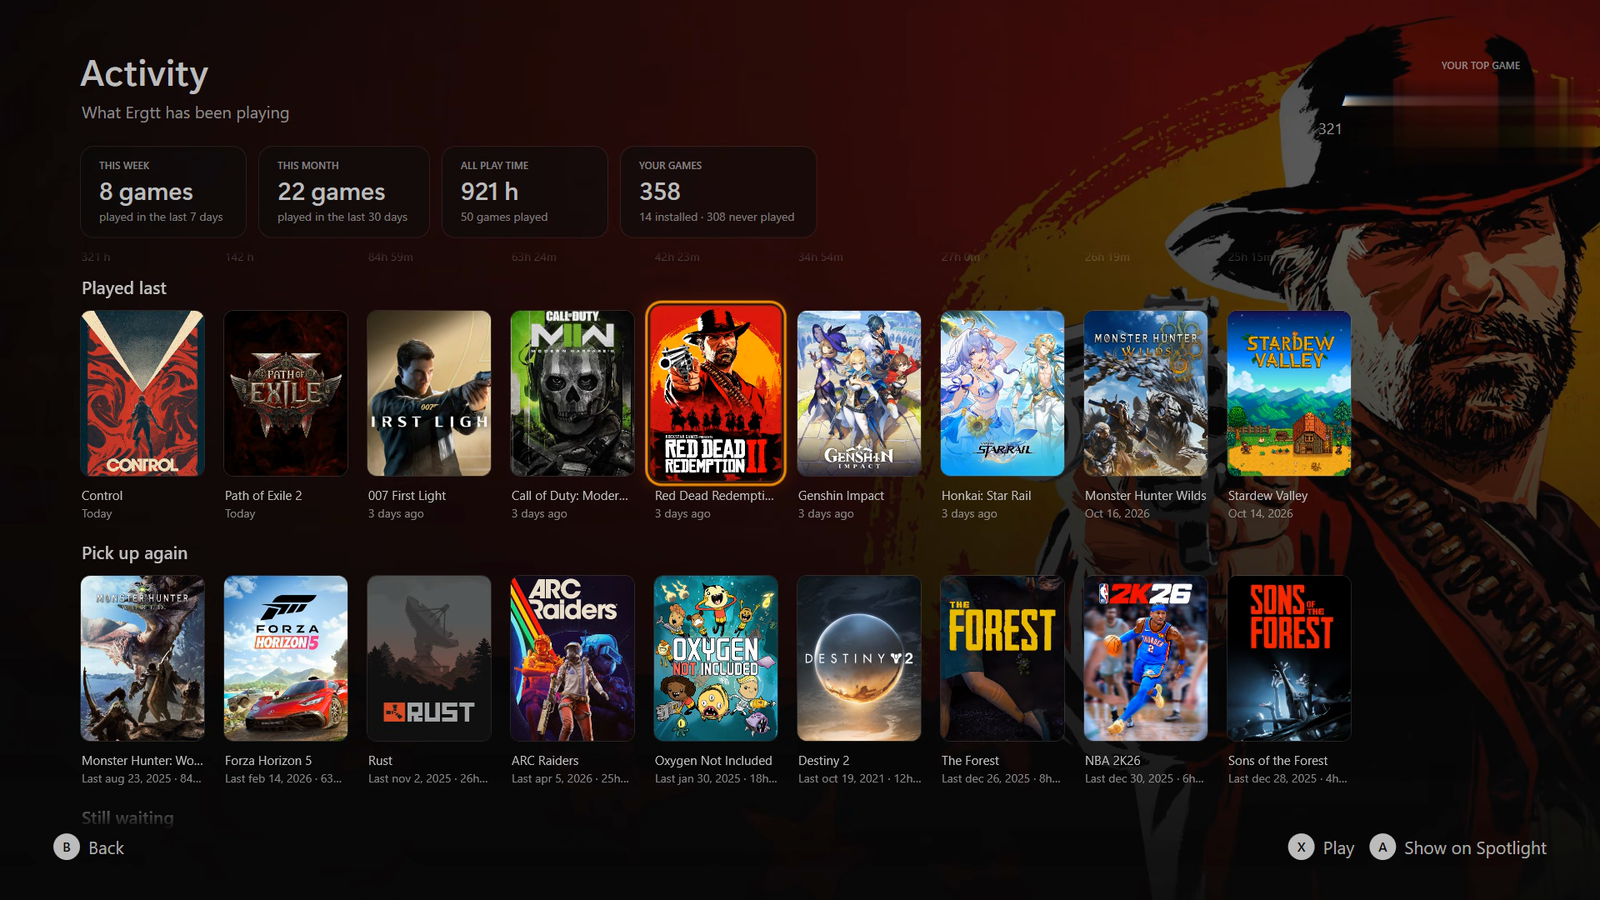
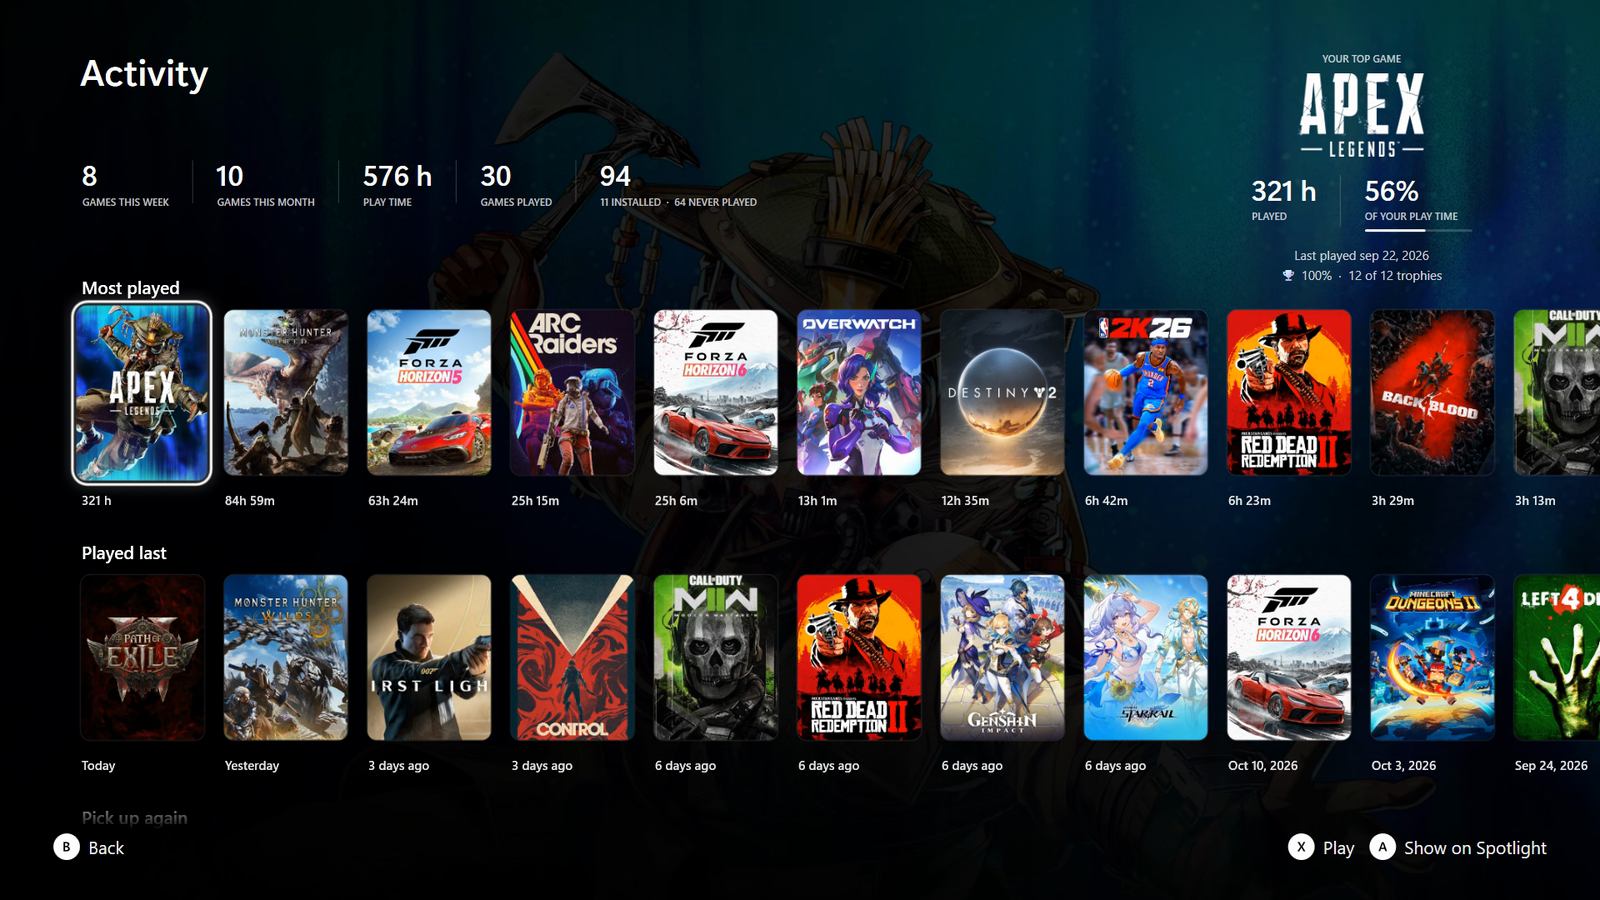
Selene 1.2.0: new screenshots and GIFs for the README

diff --git a/README.md b/README.md
@@ -3,7 +3,7 @@
 </p>
 
 <p align="center">
-  <img src="https://img.shields.io/badge/version-1.1.0-9CCBFF?style=flat-square" alt="Version 0.9.0">
+  <img src="https://img.shields.io/badge/version-1.2.0-9CCBFF?style=flat-square" alt="Version">
   <img src="https://img.shields.io/badge/Playnite-10%2B-1A2A4A?style=flat-square" alt="Playnite 10+">
   <img src="https://img.shields.io/badge/Windows-10%20%7C%2011-1A2A4A?style=flat-square" alt="Windows 10 | 11">
   <img src="https://img.shields.io/badge/controller-first-1A2A4A?style=flat-square" alt="Controller first">
@@ -12,7 +12,7 @@
 
 <p align="center">
   <b>A calm, console-style fullscreen theme for <a href="https://playnite.link">Playnite</a></b>, named after the Greek goddess of the moon.<br>
-  The theme plus <b>Selene Core</b>, the add-on that brings it to life: Spotlight, profiles, the store, your captures, the launch experience.
+  The theme plus <b>Selene Core</b>, the add-on that brings it to life: Spotlight, profiles, the store, your captures, achievements, the launch experience.
 </p>
 
 <p align="center">
@@ -36,6 +36,14 @@ Playnite 10 or newer, Windows 10 / 11, a controller recommended. Everything Sele
 
 <table>
   <tr>
+    <td width="50%"><img src="docs/readme/achievements.gif" alt="Achievements"><p align="center"><sub><b>Achievements</b> Every game's trophies, sorted your way; a game's own list like a console's</sub></p></td>
+    <td width="50%"><img src="docs/readme/activity.gif" alt="Activity"><p align="center"><sub><b>Activity</b> Your play time, this week day by day, and each game's place in it</sub></p></td>
+  </tr>
+  <tr>
+    <td width="50%"><img src="docs/readme/collection.gif" alt="Collection"><p align="center"><sub><b>Collection</b> Rest on a game and its trailer plays</sub></p></td>
+    <td width="50%"><img src="docs/readme/report.gif" alt="Report a problem"><p align="center"><sub><b>Report a problem</b> Three quick steps, or type on your phone; no account needed</sub></p></td>
+  </tr>
+  <tr>
     <td width="50%"><img src="docs/readme/spotlight.gif" alt="Spotlight"><p align="center"><sub><b>Spotlight</b> One row: your cards, then your games</sub></p></td>
     <td width="50%"><img src="docs/readme/launch.gif" alt="Play"><p align="center"><sub><b>Play</b> The game's art fades in at once and stays until the game is really on screen</sub></p></td>
   </tr>
@@ -55,8 +63,20 @@ Playnite 10 or newer, Windows 10 / 11, a controller recommended. Everything Sele
     <td width="50%"><img src="docs/screenshots/store.png" alt="Store"><p align="center"><sub><b>Store</b></sub></p></td>
   </tr>
   <tr>
-    <td width="50%"><img src="docs/screenshots/captures.png" alt="Captures"><p align="center"><sub><b>Captures</b></sub></p></td>
+    <td width="50%"><img src="docs/screenshots/achievements.png" alt="Achievements"><p align="center"><sub><b>Achievements</b></sub></p></td>
+    <td width="50%"><img src="docs/screenshots/trophies.png" alt="A game's trophies"><p align="center"><sub><b>A game's trophies</b></sub></p></td>
+  </tr>
+  <tr>
     <td width="50%"><img src="docs/screenshots/activity.png" alt="Activity"><p align="center"><sub><b>Activity</b></sub></p></td>
+    <td width="50%"><img src="docs/screenshots/game-options.png" alt="Game options"><p align="center"><sub><b>Game options</b></sub></p></td>
+  </tr>
+  <tr>
+    <td width="50%"><img src="docs/screenshots/captures.png" alt="Captures"><p align="center"><sub><b>Captures</b></sub></p></td>
+    <td width="50%"><img src="docs/screenshots/captures-player.png" alt="Clip player"><p align="center"><sub><b>Clip player</b></sub></p></td>
+  </tr>
+  <tr>
+    <td width="50%"><img src="docs/screenshots/menu.png" alt="Menu"><p align="center"><sub><b>Menu</b> Start, anywhere</sub></p></td>
+    <td width="50%"><img src="docs/screenshots/report.png" alt="Report a problem"><p align="center"><sub><b>Report a problem</b></sub></p></td>
   </tr>
 </table>
 

diff --git a/CHANGELOG.md b/CHANGELOG.md
@@ -4,6 +4,8 @@ Selene (theme) and Selene Core (add-on) share one version number and are release
 
 ## Unreleased
 
+## 1.2.0 - 2026-10-26
+
 - Spotlight and Collection take the same buttons on a game: A plays, X opens its details, Y its game options (from Spotlight with a Move option to arrange the row; Favorite is a switch there and on the heart). The questions before removing, uninstalling, resetting settings and power actions show their icons again.
 - Playnite Achievements sets itself up: its first-time page (desktop only) is done for you and every game is checked once in the background (if Playnite is closed before it finishes, the next start goes on from the game it reached), instead of only the games played since it was installed; after that, each start checks the games you played last, and an update of Playnite Achievements gets every game it has nothing for checked again. Stores still need signing in to once in its settings; Steam uses Playnite's Steam sign-in. Switch: "Achievements: set up on its own".
 - The Achievements screen shows when Playnite Achievements is checking your games: how many of how many, the game it's on, and a bar; when it finishes, the list fills in with what it found.
